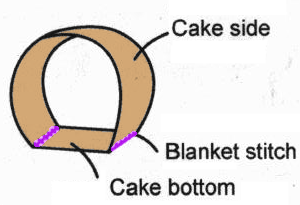
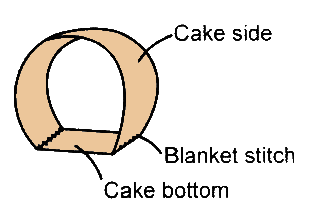
Step 2 skeleton???
I really need a much better way to do ALL OF THIS--- also how do keep
track of a user's progress if they go around other places?

Changed region(s): [[0.03, 0.0878, 0.99, 0.9659], [0.9, 0.439, 0.93, 0.4683]]

diff --git a/Steps/step2.html b/Steps/step2.html
@@ -10,12 +10,12 @@
   <link rel="stylesheet" href="/resources/demos/style.css" />
 	<script>
 	$(function() {
-		$( "#tabs" ).tabs();
+		$( "#tabs" ).tabs({active:2});
 	});
 
 	$(function() {
 		$( "#progressbar" ).progressbar({
-			value: 0
+			value: 10
 		});
 	});</script>
 </head>
@@ -51,24 +51,27 @@
 	<!--for a single step-->
 	<!--jQueryUi has stuff for tabs-- for navigation-->
 	<div id="step">
-		<div id="stepTitle"><h2>Step 1<h2></div>
+		<div id="stepTitle"><h2>Step 2<h2></div>
 		<div id="progressbar"></div>
-		<div id="stepText"><p>Print and cut out pattern template. Transfer each piece to the appropriate fabric, then cut out fabric pieces <p><div>
-		<div id="stepImage"><img src="step1.jpg"/></div>
-		<div id="stepExtra"><p><a href="">Template here</a></p></div>
+		<div id="stepText"><p>Sew the cake bottom to the cake sides as shown, using the blanket stitch<p><div>
+		<div id="stepImage"><img src="step2diagram.png"/></div>
+		<div id="stepExtra"><p></p></div>
 		<div id="stepAppendix">
 			<div id="stepWarnings"><span class="ui-icon ui-icon-alert"></span><h3>Warnings</h3>
 			<p>Be careful of blah blah blah</p></div>
 			<div id="stepTips"><span class="ui-icon ui-icon-lightbulb"></span><h3>Tips</h3>
 			<p>Blah blah blah</p></div>
 			<div id="stepHelp"><span class="ui-icon ui-icon-info"></span><h3>Additional Help</h3>
-			<p>Links to stuff-- Use jQueryUI dialog boxes</p></div>
+			<ul>
+				<li>Blanket stitch</li>
+			</ul>
+			</div>
 		</div>
 	</div>
 	<div id="stepNavigation">
 		<div id="backStep">Previous</div>
 		<div id="topOfSteps">Back to top</div>
-		<div id="nextStep"><a href="step2.html">Next</a></div>
+		<div id="nextStep">Next</div>
 	</div>	
 </div>
 </body>
